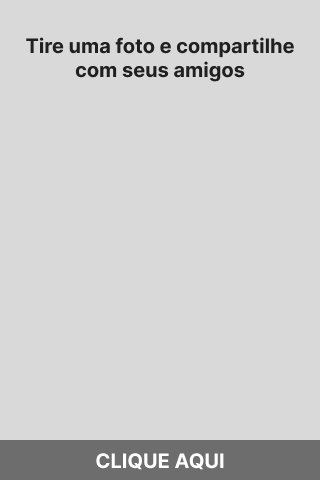
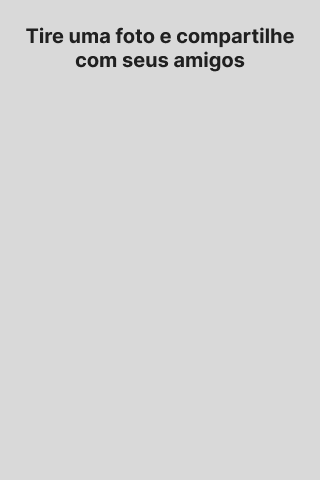
replace bg rich media moldura

Changed region(s): [[0.0, 0.9062, 1.0, 1.0], [0.0625, 0.0312, 0.9375, 0.1875]]

diff --git a/moldura/assets/css/main.css b/moldura/assets/css/main.css
@@ -10,14 +10,13 @@ figure {
 }
 .video, .canvas {
     position: absolute;
+    width: 163px;
+    height: 290px;
 }
 .video {
-    /* border: 1px solid red; */
-    left: 43px;
+    left: 79px;
     top: 100px;
     z-index: 1;
-    width: 234px;
-    height: 131px;
 }
 .canvas {
     border: 1px solid green;
@@ -49,14 +48,18 @@ figure {
 }
 .video-controlls {
     position: relative;
-    top: 165px;
+    top: 120px;
     display: flex;
-    justify-content: space-between;
+    justify-content: center;
+    gap: 15px;
 }
 .video-controlls button {
     border: 0;
     background: transparent;
     cursor: pointer;
+}
+.video-controlls button img {
+    width: 80%;
 }
 .remove {
     display: none;

diff --git a/moldura/assets/js/main.js b/moldura/assets/js/main.js
@@ -11,14 +11,14 @@ const [play, pause, screenshot, share] = buttons;
 const constraints = {
   video: {
     width: {
-      min: 234,
-      ideal: 234,
-      max: 234,
+      min: 163,
+      ideal: 163,
+      max: 163,
     },
     height: {
-      min: 131,
-      ideal: 131,
-      max: 131
+      min: 290,
+      ideal: 290,
+      max: 290,
     },
   }
 };
@@ -119,6 +119,6 @@ const shareImage = async () => {
     }
 }
 
-share.onclick = shareImage
+// share.onclick = shareImage
 
 getCameraSelection();

diff --git a/moldura/index.html b/moldura/index.html
@@ -16,7 +16,7 @@
                 <img src="./assets/img/not-image.png" alt="sem imagem">
             </figure>
 
-            <section class="video-options">
+            <section class="video-options remove">
                 <select name="camera" id="" class="custom-select">
                     <option value="">Selecione a câmera</option>
                 </select>
